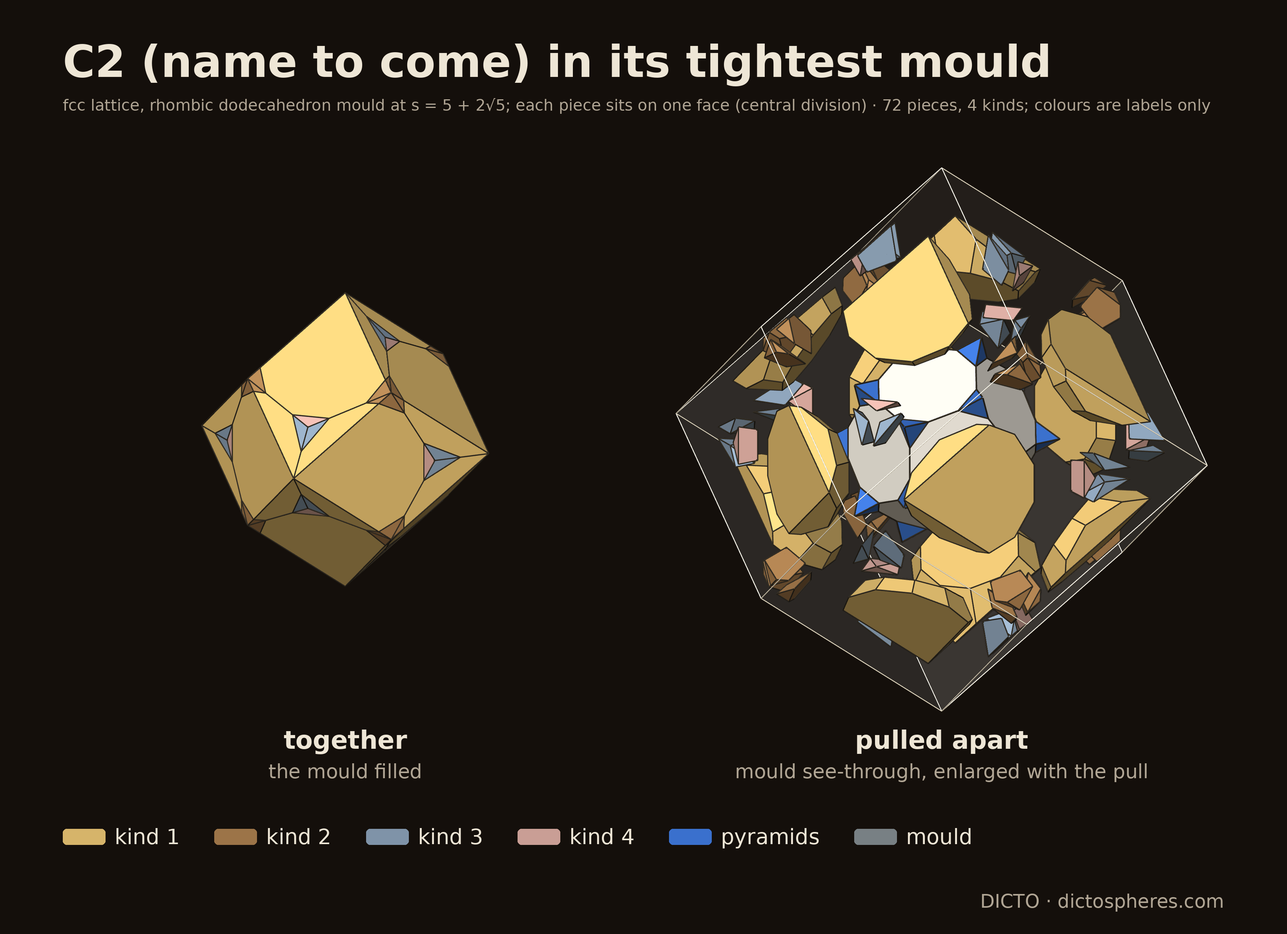
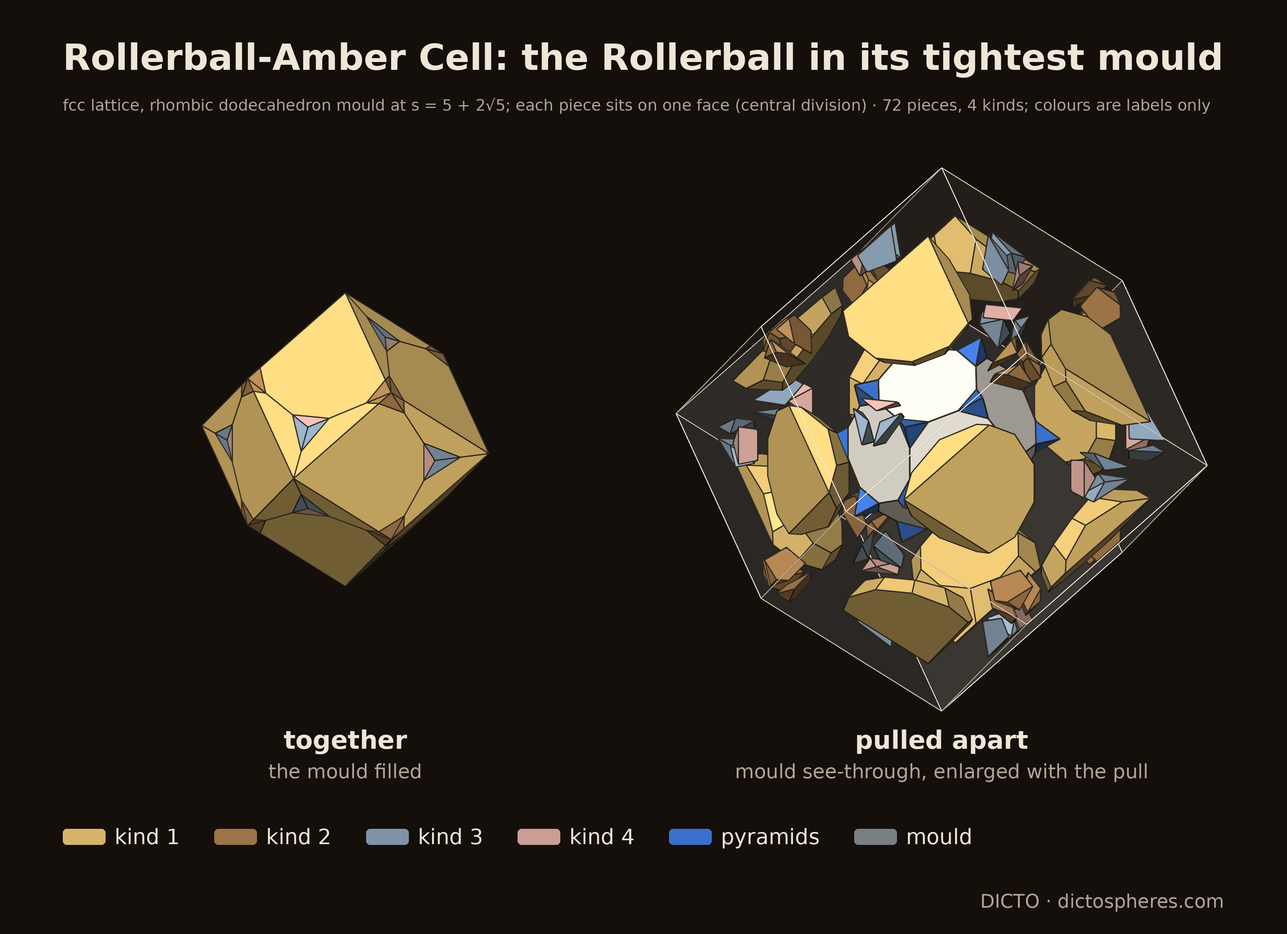
Dehn packets draft: figures 2-12 (screen chart, Fullerene Star, Rollerball, resin cell, skeleton and combi scutoids)

Changed region(s): [[0.0311, 0.0311, 0.964, 0.0933]]

diff --git a/papers/2026-11-21-dehn-packets/paper.html b/papers/2026-11-21-dehn-packets/paper.html
@@ -21,7 +21,8 @@ DICTO: the idea that a solid carries its Dehn invariant as a packet of informati
 · Scope check (done): every shape and result here has its home in the four study folders of the meta line; cross-references only to #44 (Lemma 1, the angle count), #93 (the rhombic dodecahedron pyramids tile), #100 (the B3 permutohedron) and #114 (scutoids). Not in this paper: the gap study's other cells, the Vacuus pieces, 4D work.<br>
 · Audit: <code>scripts/audit.py</code> recomputes the numbers of the text and tables and reads the study logs (AUDIT OK at build); figcheck run at build. Tone softened (DICTO 21 Nov).<br>
 · Added: the resin solution (DICTO, 21 Nov).<br>
-· Added: the straight-skeleton scutoids and DICTO's combined method (Theorems 14, 15; DICTO, 21 Nov). Numerical only: the Rollerball skeleton of Theorem 14 (v), 50 digits.</div>
+· Added: the straight-skeleton scutoids and DICTO's combined method (Theorems 14, 15; DICTO, 21 Nov). Numerical only: the Rollerball skeleton of Theorem 14 (v), 50 digits.<br>
+· Added: Figures 2–12 (DICTO, 21 Nov); Figure 5 is the symbol of the paper. Not drawn: the OG beside the Fullerene Star (Remark 7a), pending a render.</div>
 
 <div class="abstract"><b>Abstract.</b> DICTO's idea is that every solid carries a packet: its Dehn invariant, the sum over its edges of length ⊗ dihedral angle, with angles counted modulo rational multiples of π. Pieces that fill space together in fixed proportions must have packets that cancel in those proportions (Proposition 1, for periodic tilings). We screened the 47 centre pyramids of the Platonic, Archimedean and Catalan solids against a library of 80 pieces and found 97 exact cancellations (Proposition 6). The two new ones are icosahedral: twelve dodecahedron centre pyramids cancel one truncated icosahedron, and twenty icosahedron centre pyramids cancel one truncated dodecahedron, all edges equal. <b>Main theorem</b> (Theorem 4, by hand, checked by exact enumeration): neither pair fills space, in any tiling, face-to-face or not, also with dodecahedra, icosahedra, truncated octahedra, truncated cuboctahedra, truncated icosidodecahedra and any convex pieces whose dihedral angles are all rational multiples of π. The reason is local: around an edge the irrational parts of the angles must cancel within one full turn, and the smallest ring of these pieces in which they cancel is 540°, one and a half turns. The packet must cancel edge by edge, not only in the whole. Glued into one piece, the twelve pyramids and the truncated icosahedron make a solid of packet zero, which DICTO names the Fullerene Star (the truncated dodecahedron with icosahedron pyramids likewise, which DICTO names the Rollerball). Any solid has a helper of some shape that completes it to a tiling (Lemma 9); for scutoids, which DICTO proposed, we prove exact constraints: in a face-to-face tiling a scutoid helper of Fullerene Star must carry a face congruent to the pyramid's side triangle and a regular-hexagon face, and wherever Fullerene Star copies share a hexagon, an edge between those two faces at exactly arccos(1/√6) − π/4 ≈ 20.91° (Lemma 10, within a stated angle alphabet). Whether a true scutoid stand-in exists is open. DICTO proposed the resin solution: set Fullerene Star in a mould that fills space, fill the gap with resin and divide it by cones from Fullerene Star's centre. This gives an exact periodic tiling by one cell, the Fullerene Star in its resin pieces inside the mould, which DICTO names the Fullerene-Amber Cell, made of five kinds of convex resin pieces and the Fullerene Star, so the pyramids and truncated icosahedra do fill space with stand-ins, in a tiling whose packets cancel globally and whose every ring closes (Proposition 12); the central division has no scutoids (Remark 13). Two further divisions of the resin do: the straight skeleton, exact for Fullerene Star, with scutoids exactly above stated mould scales (Theorem 14), and DICTO's combined method, which fills the two ends in 2D and cuts the resin to fit, in which all 80 pieces are true scutoids in five kinds (Theorem 15).</div>
 
@@ -89,6 +90,7 @@ and since the irrational parts then cancel, the sum of the ring equals its π-pa
 
 <h2>4. The screen: which centre pyramids have a cancelling partner</h2>
 <p class="hook">We weighed the packet of each of the 47 centre pyramids of the classical solids against 80 pieces. Three need no partner, ten have one, seventeen need two, and seventeen have none in the library.</p>
+<figure><img src="figures/fig-screen.svg" style="width:78%;margin:0 auto" alt="Four bars: 3, 10, 17 and 17 pyramids"><figcaption><b>Figure 2.</b> The 47 centre pyramids of the classical solids by the verdict of the screen (Proposition 6): three of packet zero, ten with one cancelling helper, seventeen with two, seventeen with none in the library of 80 pieces. Counts asserted in <code>scripts/fig_screen.py</code>.</figcaption></figure>
 <p class="thm"><b>Proposition 6</b> (the screen). <i>Exact</i>, except where marked (study packet-screen). Take the 47 centre pyramids of the 5 Platonic, 13 Archimedean and 13 Catalan solids (one pyramid per face type; Platonic and Archimedean solids at edge 1, each Catalan solid the polar reciprocal of its edge-1 Archimedean dual in the midsphere) and the library of 80 pieces formed by these pyramids, the 31 solids and the square and pentagonal antiprisms. Allow every helper to be scaled freely.<br>
 (i) Exactly three pyramids have packet zero: those of the cube, the rhombic dodecahedron and the rhombic triacontahedron.<br>
 (ii) Ten pyramids have a single helper in the library whose packet cancels theirs, in 26 pyramid–helper pairs in all.<br>
@@ -119,6 +121,8 @@ All 97 cancellations of (ii) and (iii) are proved by exact identities and do not
 <tr><td></td><td>pyramid side–side</td><td>R</td><td class="n">60</td><td>2π/5</td><td class="n">72</td><td>8π/5</td><td>3π/5</td></tr>
 </table>
 <p><i>Proof.</i> Gluing removes the pentagon edges (pyramid base angle α plus TI pentagon–hexagon angle 3π/4 − α + β makes the reflex angle 3π/4 + β) and leaves the TI hexagon–hexagon edges and the pyramid side edges. At length a the packet is 30 ⊗ (−2β) + 60 ⊗ β = 0; at length R the angle is rational. For Rollerball: 30 ⊗ 2α + 60 ⊗ (−α) = 0. ∎</p>
+<figure><img src="figures/fullerene-star.webp" style="width:76%;margin:0 auto" alt="The Fullerene Star, whole and with its twelve pyramids pulled out"><figcaption><b>Figure 3.</b> The Fullerene Star: the truncated icosahedron (20 hexagons, pearl) with a dodecahedron centre pyramid (violet) on each of its 12 pentagons, 60 triangles in all; on the right the pyramids pulled out along their five-fold axes. Drawn from the exact coordinates (study scutoid-stand-in, renders).</figcaption></figure>
+<figure><img src="figures/rollerball.webp" style="width:76%;margin:0 auto" alt="The Rollerball, whole and with its twenty pyramids pulled out"><figcaption><b>Figure 4.</b> The Rollerball: the truncated dodecahedron (12 decagons) with an icosahedron centre pyramid (blue) on each of its 20 triangles; on the right the pyramids pulled out along their three-fold axes.</figcaption></figure>
 <p>Theorem 4 concerns tilings by the separate pieces with the listed helpers; it does not forbid Fullerene Star or Rollerball with a helper of another kind. Neither compound is one of DICTO's named solids (the concordance's TI Star puts pyramids on all 32 faces of the truncated icosahedron, not on the 12 pentagons only).</p>
 <p class="thm"><b>Remark 7a</b> (the Fullerene Star and the OG share 80 planes). <i>Exact</i> in ℚ(√5) (study fullerene-star-og, <code>og_vs_fullerene_star.py</code>). DICTO noticed the shared count of 80. The Fullerene Star lies on the same 80 planes as DICTO's Ogdoecontahedron (OG, #31 [14]): the 60 face planes of a pentakis dodecahedron and the same 20 hexagon planes. In the OG the six-fold corners of the pentakis dodecahedron lie above the hexagon planes and are cut off, which leaves 60 kites and 20 hexagons, 102 corners, a convex solid. In the Fullerene Star they lie below, so nothing is cut: 60 triangles and 20 hexagons, 72 corners, 150 edges. Its pyramids stand at 2.227, which is 2.118 times the greatest height H<sub>c</sub> = 1.0515 (in the frame where the truncated icosahedron has edge 2) at which the solid on these planes stays convex, so the Fullerene Star is non-convex (hexagon–triangle dihedral 200.91°, reflex). It is therefore not of the OG's combinatorial type, and it is not a member of the family of #39 [15] (its corner counts differ from those of that family's nine solids).</p>
 
@@ -142,14 +146,22 @@ All 97 cancellations of (ii) and (iii) are proved by exact identities and do not
 <p class="hook">Stand Fullerene Star in a space-filling mould, pour resin round it, and cut the resin from its centre: the pieces fill space, in five kinds.</p>
 <p><i>Proof.</i> Fullerene Star is star-shaped from its centre, and the planes of its 80 faces all lie at positive distance from the centre (checked exactly), so the cones over the faces tile space outside Fullerene Star; cutting with the cells of the mould, which tile space, gives the pieces. The computation is in ℚ(√5); the volume sum, the overlap test and the five kinds in each of the nine arrangements are in the log of branch D, which ends FINAL ok. ∎</p>
 <p>What this means for the question of the paper. The pyramids and the truncated icosahedra do fill space with stand-ins: five kinds of convex pieces, periodic, exact. This does not contradict Theorem 4, which concerns pieces with rational angles and the listed solids as helpers; no single cancelling partner, and no one-kind helper of the tested shapes, fills space. In this tiling the packet cancels globally, and since the pieces tile, every edge ring closes (Corollary 5). The 157.76° ring barrier of the screen never appears as a dihedral angle of a piece, because each piece lies on one whole face of Fullerene Star and is not asked to close a ring of Fullerene Star faces alone.</p>
+<figure><img src="figures/fullerene-amber-cell.webp" style="width:84%;margin:0 auto" alt="One cell, pulled apart and together"><figcaption><b>Figure 5.</b> <b>The symbol of this paper.</b> The Fullerene-Amber Cell of Proposition 12: the Fullerene Star in its truncated-octahedron mould (bcc, s<sub>0</sub>) with its 80 resin pieces, pulled apart from the centre (left, mould see-through) and together (right). Five kinds of piece, one per symmetry class of faces; kind colours are labels only.</figcaption></figure>
+<figure><img src="figures/resin-kinds.webp" style="width:100%;margin:0 auto" alt="One piece of each of the five kinds"><figcaption><b>Figure 6.</b> The five kinds of resin piece of Proposition 12, each standing on its face of the Fullerene Star (hexagon, 8 and 12 per cell; spike triangle, 24, 24 and 12 per cell), same scale.</figcaption></figure>
+<figure><img src="figures/resin-tiling.webp" style="width:62%;margin:0 auto" alt="Six bcc cells face to face"><figcaption><b>Figure 7.</b> Six cells face to face in the body-centred lattice at s<sub>0</sub>: the cells tile space. The front cell shows the Fullerene Star inside its see-through mould.</figcaption></figure>
+<figure><img src="figures/rollerball-amber-cell.webp" style="width:84%;margin:0 auto" alt="The Rollerball in its mould with 72 resin pieces"><figcaption><b>Figure 8.</b> The Rollerball-Amber Cell: the Rollerball in its tightest mould (fcc, rhombic dodecahedron at s = 5 + 2√5), central division, 72 resin pieces in 4 kinds; together (left) and pulled apart (right).</figcaption></figure>
 <p class="thm"><b>Remark 13</b> (scutoids in the resin). <i>Exact</i> for the central division; the face-normal division <i>computed</i> (same study, <code>scripts/overlap.py</code>). The central division gives no scutoid, in any arrangement: each side wall of a piece lies in a plane through the centre of Fullerene Star and one edge of Fullerene Star, so the piece across that wall is the same all the way out, and two such planes meet only along the ray through a vertex of Fullerene Star, so there is no Y-vertex. The pieces are frusta whose tops are cut by the mould. DICTO also proposed dividing along the face normals, with the bisector plane of each edge's dihedral angle as the wall. This is a tiling only in the simple cubic and body-centred arrangements at s<sub>0</sub> (five kinds, no scutoid); elsewhere the hexagon pieces close over the hexagon with three Y-vertices, true scutoids, but exactly there the pieces of neighbouring faces overlap (depth 0.025 to 0.533), so it is not a division. The straight skeleton, in Theorem 14, settles this: it is a valid division, with scutoids.</p>
 
 <p class="thm"><b>Theorem 14</b> (the straight-skeleton division of the resin of the Fullerene-Amber Cell). <i>Exact</i> for Fullerene Star, in K = ℚ(√5, √3) (study scutoid-stand-in, branch D, <code>scripts/skeleton2.py</code>); <i>computed</i> (50 digits) for Rollerball. Move every face plane of Fullerene Star outward along its normal at unit speed, and let each face F sweep out the piece of F between the events of this wavefront and the mould. (i) The first event is at height t<sub>1</sub> = (2 + √3)(√5 − 1)/4 ≈ 1.1533, where the 30 hexagon–hexagon edges shrink to points and, across each, a spike triangle of one pyramid meets a spike triangle of the neighbouring pyramid; the second is at t<sub>2</sub> = (3 + 3√5 + 3√3 + √15)/4 ≈ 4.6943, where the hexagons on the 3-fold axes close. (ii) In each of the nine moulds (sc, bcc, fcc, each at s<sub>0</sub>, 6/5 s<sub>0</sub>, 3/2 s<sub>0</sub>) the pieces and Fullerene Star tile space: the volumes add up exactly, and every two pieces and every piece and part of Fullerene Star have a separating plane verified exactly in K. (iii) The pieces include true scutoids (a Y-vertex, with different neighbour sets on the Fullerene Star side and the mould side) exactly when an event point lies strictly inside the mould, that is for bcc when s &gt; 6 + 3√3 − √15 ≈ 7.3232 (1.1597 s<sub>0</sub>), for sc when s &gt; (3 + 3√5 − √3 + √15)/2 ≈ 5.9246 (1.0120 s<sub>0</sub>), and for fcc when s &gt; 6 + 3√3 − √15 as well, which is 0.7731 s<sub>0</sub>, so at every valid fcc scale. Hence none at bcc s<sub>0</sub> and sc s<sub>0</sub>; two kinds at bcc 6/5 s<sub>0</sub>, and all five at 3/2 s<sub>0</sub>; five kinds at sc 6/5 s<sub>0</sub>; two kinds at fcc s<sub>0</sub> and five at larger scales. (iv) At bcc 6/5 s<sub>0</sub> the two scutoid kinds are the 12 hexagon pieces (6 neighbours on Fullerene Star, 5 on the mould, one Y-vertex, on a coordinate axis) and one orbit of 24 triangle pieces (3 neighbours on Fullerene Star, 4 on the mould, one Y-vertex); the hexagons on the 3-fold axes and the other triangle pieces stay frusta, because their events lie outside the mould. (v) For the Rollerball (truncated dodecahedron with icosahedron centre pyramids) in its resin pieces inside the mould, a cell which DICTO names the Rollerball-Amber Cell, the same skeleton, computed to 50 digits, is a valid division in sc, bcc and fcc at s<sub>0</sub> and 6/5 s<sub>0</sub> (the volume gap below 10<sup>−46</sup>), with 4 kinds, all four of them scutoids (decagon pieces 10 → 5 neighbours with 5 Y-vertices, the three triangle kinds 3 → 5 with 2 Y-vertices); the first event is at 0.3748 and scutoids occur above 0.795 s<sub>0</sub> (sc, bcc) and 0.711 s<sub>0</sub> (fcc).</p>
 <p class="hook">Let the faces of Fullerene Star grow outward; where two growing faces' edges close up, the pieces change neighbours, and that is a scutoid.</p>
 <p><i>Proof.</i> The unit normals of the hexagons are v/√3 with v in ℚ(√5)³, and those of the spike triangles lie in ℚ(√5)³, so every plane, wavefront vertex, event height and slab vertex lies in K and each decision is an exact sign in K. The height t<sub>1</sub> is the exact solution of the 3 × 3 linear system at a hexagon–hexagon edge; the checks of (ii)–(iv) are in the log of round 3, which ends FINAL ok, and the vertices of one piece of each kind are in <code>data/skeleton_exact.json</code>. ∎ (The Rollerball statements are not proved: they rest on 50 digits, as the decagon normals need a field of degree 8.)</p>
+<figure><img src="figures/skeleton-kinds.webp" style="width:100%;margin:0 auto" alt="The two scutoid kinds of the straight skeleton"><figcaption><b>Figure 9.</b> Theorem 14 (iv), bcc at 6/5 s<sub>0</sub>: the two kinds of scutoid piece, kind 2 (hexagon, 6 neighbours on the Fullerene Star, 5 on the mould) and kind 3 (spike triangle, 3 to 4), seen from above and from below. Dark: Fullerene Star side; light: mould side; white dot: the Y-vertex.</figcaption></figure>
+<figure><img src="figures/skeleton-hexagons.webp" style="width:62%;margin:0 auto" alt="The twelve hexagon scutoids round the Fullerene Star"><figcaption><b>Figure 10.</b> The 12 hexagon scutoids (kind 2) of the same division round the Fullerene Star; the other 68 pieces are left out. White dots: Y-vertices.</figcaption></figure>
 <p class="thm"><b>Theorem 15</b> (DICTO's combined method, in the Fullerene-Amber Cell). <i>Exact</i> in ℚ(√5) (study scutoid-stand-in, branch E, <code>scripts/combi.py</code>). DICTO proposed to fill the two ends in 2D and then cut the resin to fit. The inner end is the pattern of the 80 faces of Fullerene Star. The outer end is the Voronoi diagram, on the surface of the mould, of 80 seeds, the centroids of the faces of Fullerene Star. Where an inner edge and its outer partner join the same vertices the wall between them is kept; where the two patterns differ, the vertices are merged into one Y-vertex halfway between Fullerene Star and the mould, and a wall that is not flat is split into flat triangles. The result is a division of the resin into 80 pieces, one per face, whose boundaries are closed embedded surfaces, each of positive volume, each wall shared by exactly two pieces with opposite orientation, and whose volumes add up exactly to the resin (an independent sampling check of 1848 points found each covered once). The patterns differ only at hexagon–hexagon edges of Fullerene Star, where the two mould triangles beside the edge meet across it. All 80 pieces are true scutoids, in 5 kinds, at bcc 6/5 s<sub>0</sub> (30 Y-vertices), at sc s<sub>0</sub> (24) and at fcc s<sub>0</sub> (30); at bcc s<sub>0</sub> the division is valid with 36 of the 80 pieces scutoids (6 Y-vertices) and 44 without a Y-vertex. A piece has 5 to 38 flat faces, because the bent walls are split into triangles; 157.76° does not occur as an angle of any piece. Seeds taken as the centroids projected on the mould, from the centre or along the normal, gave a valid division only at bcc 6/5 s<sub>0</sub> (72 of 80 scutoids) and otherwise pieces that cross themselves, which shows only that this cut does not work for them.</p>
 <p class="hook">Draw the faces of Fullerene Star on its surface and the Voronoi cells of the mould on the other; the pieces between them are scutoids wherever the two drawings differ.</p>
 <p><i>Proof.</i> By the checks listed in the statement, run in ℚ(√5) (exact at the margin of the embedding test). A piece with a Y-vertex whose neighbours on the Fullerene Star side and on the mould side differ is a scutoid by definition. ∎</p>
+<figure><img src="figures/combi-kinds.webp" style="width:90%;margin:0 auto" alt="The five kinds of the combined method from above and below"><figcaption><b>Figure 11.</b> Theorem 15 at bcc 6/5 s<sub>0</sub>: one piece of each of the five kinds standing on its face of the Fullerene Star, from above (top) and from below (bottom). Dark: Fullerene Star side; light: mould side; white dots: Y-vertices. Walls that bend are split into flat triangles.</figcaption></figure>
+<figure><img src="figures/combi-cell-scutoids.webp" style="width:100%;margin:0 auto" alt="The Fullerene-Amber Cell with 80 scutoids, complete and exploded"><figcaption><b>Figure 12.</b> The Fullerene-Amber Cell of Theorem 15: complete (outline of the mould), exploded round the Fullerene Star, and exploded with the 25 pieces facing the viewer left out. All 80 pieces are scutoids; 30 Y-vertices.</figcaption></figure>
 <p class="thm"><b>Remark 16</b> (what the scutoids mark). In the Fullerene-Amber Cell the resin is a transition layer. On its inner face the pattern is that of Fullerene Star, with five-fold and three-fold symmetry; on its outer face it is that of the mould, cubic. The pieces between must hand one pattern over to the other, and the neighbours of a piece change exactly where the patterns differ: in the skeleton division, where the hexagon–hexagon edges collapse inside the mould; in the combined method, at the same edges, where two triangles of the outer pattern meet across them. The scutoids sit at that handover and nowhere else: pieces whose neighbours do not change are frusta.</p>
 
 <h2>7. Open questions</h2>

diff --git a/studies/2026-11-21-scutoid-stand-in/renders/scripts/compose.py b/studies/2026-11-21-scutoid-stand-in/renders/scripts/compose.py
@@ -66,11 +66,11 @@ KL = [(KIND[i], f'kind {i + 1}') for i in range(5)]
 figure('resin-c1.png', 'Fullerene Star', 'Twelve dodecahedron centre pyramids (violet) on the pentagons of the core; on the right pulled out along their axes',
        [(s('c1', 0), 'Fullerene Star', '20 hexagons, 60 triangles'), (s('c1', 1), 'pyramids pulled out', 'each along its own 5-fold axis')],
        [(PEARL, 'hexagon faces'), (VIO, 'pyramids')], cell=640)
-figure('resin-cell.png', 'One cell: Fullerene Star in its mould with 80 resin pieces',
+figure('resin-cell.png', 'The Fullerene-Amber Cell: the Fullerene Star in its mould with 80 resin pieces',
        'bcc lattice at its smallest scale s0; each piece sits on one face of the Fullerene Star (central division) · left: pulled apart from the centre, mould see-through and enlarged with the pull',
        [(s('cell', 0), 'pulled apart', '80 pieces, 5 kinds'), (s('cell', 1), 'together', 'the mould filled')],
        KL + [(VIO, 'pyramids'), (GLASS, 'mould')], cell=720)
-figure('resin-tiling.png', 'Cells together fill space',
+figure('resin-tiling.png', 'Fullerene-Amber Cells together fill space',
        'Six cells of the bcc lattice face to face; the front cell shows the Fullerene Star inside its see-through mould, the others their resin',
        [(s('tiling', 0), 'six cells', 'bcc translates at s0')], KL + [(VIO, 'pyramids')], cell=900)
 SUB = ['on a hexagon · 8 per cell', 'on a hexagon · 12 per cell', 'on a triangle · 24 per cell', 'on a triangle · 24 per cell',
@@ -82,7 +82,7 @@ figure('resin-kinds.png', 'Kinds 1–5', 'One piece of each kind, standing on it
 # ---- scutoid divisions, bcc mould at 6/5 s0 (scenes2.py) ----
 def sh(c, k): return tuple(int(round(x * (1 + k) if k < 0 else x + (255 - x) * k)) for x in c)
 FS = 'Fullerene Star'
-figure('scutoid-combi-cell.png', 'One cell cut by the combi method: 80 scutoids',
+figure('scutoid-combi-cell.png', 'One Fullerene-Amber Cell cut by the combi method: 80 scutoids',
        f'bcc mould at 6/5 s0, centroid seeds · every piece has a Y vertex · pulled apart from the centre, mould see-through and enlarged with the pull',
        [(s('combi_cell', 0), 'pulled apart', '80 pieces, 5 kinds, 30 Y vertices')], KL + [(VIO, 'pyramids'), (GLASS, 'mould')], cell=900)
 NB = ['6 → 3 neighbours · 8 per cell', '6 → 3 neighbours · 12 per cell', '3 → 5 neighbours · 24 per cell', '3 → 5 neighbours · 24 per cell',
@@ -101,12 +101,12 @@ figure('scutoid-skeleton-hexagons.png', f'The 12 hexagon scutoids round the {FS}
        'Exact straight skeleton, bcc mould at 6/5 s0 · kind 2 on the 12 hexagons of one orbit; the other 68 pieces left out · white dots: Y vertices',
        [(s('skeleton', 4), 'kind 2 × 12', f'on the {FS}')], [(KIND[1], 'kind 2'), (VIO, 'pyramids'), ((255, 255, 255), 'Y vertex')], cell=900)
 
-# ---- C2 (name to come) (scenes3.py) ----
-BLUE = (58, 112, 205); C2N = 'C2 (name to come)'
+# ---- Rollerball (scenes3.py) ----
+BLUE = (58, 112, 205); C2N = 'Rollerball'
 figure('c2.png', C2N, 'Truncated dodecahedron with a regular icosahedron centre pyramid (blue) on each of its 20 triangles (side edges = the icosahedron circumradius) · right: pyramids pulled out along their 3-fold axes',
        [(s('c2', 0), C2N, '12 decagons, 60 triangles'), (s('c2', 1), 'pyramids pulled out', 'each along its own 3-fold axis')],
        [(PEARL, 'decagon faces'), (BLUE, 'pyramids')], cell=640)
-figure('c2-cell.png', f'{C2N} in its tightest mould',
+figure('c2-cell.png', 'Rollerball-Amber Cell: the Rollerball in its tightest mould',
        'fcc lattice, rhombic dodecahedron mould at s = 5 + 2√5; each piece sits on one face (central division) · 72 pieces, 4 kinds; colours are labels only',
        [(s('c2cell', 0), 'together', 'the mould filled'), (s('c2cell', 1), 'pulled apart', 'mould see-through, enlarged with the pull')],
        [(KIND[i], f'kind {i + 1}') for i in range(4)] + [(BLUE, 'pyramids'), (GLASS, 'mould')], cell=720)

diff --git a/papers/2026-11-21-dehn-packets/scripts/fig_screen.py b/papers/2026-11-21-dehn-packets/scripts/fig_screen.py
@@ -1,0 +1,15 @@
+#!/usr/bin/env python3
+"""Figure 2: the 47 centre pyramids of the screen by class (Proposition 6). Counts asserted: 3 + 10 + 17 + 17 = 47."""
+import os
+rows = [("packet zero, no partner needed", 3, "#d9d4c7"), ("one helper in the library", 10, "#9aa7b1"),
+        ("two helpers, no single one", 17, "#5d6d7a"), ("none in the library (one or two helpers)", 17, "#c9b9a6")]
+assert sum(n for _, n, _ in rows) == 47
+W, x0, u = 640, 250, 11
+out = [f'<svg xmlns="http://www.w3.org/2000/svg" viewBox="0 0 {W} 168" font-family="DejaVu Sans, sans-serif" font-size="11">']
+for i, (t, n, c) in enumerate(rows):
+    y = 14 + i * 32
+    out.append(f'<text x="{x0 - 8}" y="{y + 15}" text-anchor="end">{t}</text><rect x="{x0}" y="{y}" width="{n * u}" height="22" fill="{c}" stroke="#222"/>'
+               f'<text x="{x0 + n * u + 6}" y="{y + 15}" font-weight="600">{n}</text>')
+out.append(f'<text x="{x0}" y="160" font-size="10" fill="#444">pyramids of the 5 Platonic, 13 Archimedean and 13 Catalan solids (47 in all)</text></svg>')
+open(os.path.join(os.path.dirname(os.path.abspath(__file__)), "..", "figures", "fig-screen.svg"), "w").write("\n".join(out))
+print("fig-screen ok")
